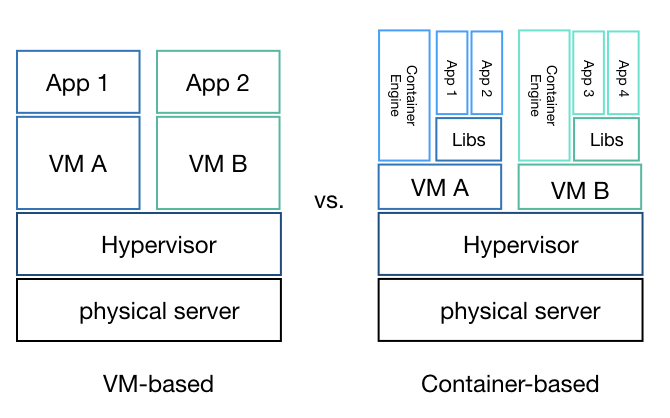
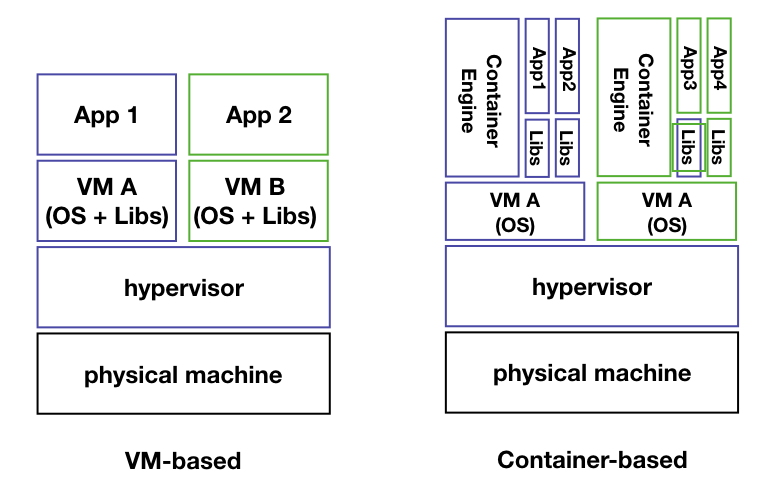
update

diff --git a/background.tex b/background.tex
@@ -4,6 +4,56 @@
 % Then, it narrows down to the Energy-aware resource management problem in Section \ref{C:}.
 
 
+\subsection{Virtualization}
+Virtualization \cite{Uhlig:2005do} is the fundamental technology that enables Cloud computing. It partitions a physical machine's resources (e.g. CPU, memory and disk) into several independent units called virtual machines (VMs) or containers. This technology rooted back in the 1960s' and was originally invented to enable isolated software testing, because each virtualized unit can provide good isolation which means multiple applications can run in separated VMs within the same PM without interfering each other \cite{Somani:2009ho}. 
+
+Soon, people realized that it can be a way to improve the utilization of hardware resources: With each application deployed in a VM, a PM can run multiple applications. Later, multiple ways of dynamic migration (e.g pre-copy \cite{Clark:2005uda} and post-copy \cite{Hines:2009vs}) of VM were invented, which compresses and transfers a VM from one PM to another. This technique allows resource management in real time which inspires the strategy of server consolidation. 
+
+Virtual machine-based virtualization is the mainstream in the previous decades and producing many popular hypervisors: Xen \cite{Barham:2003cj}, KVM \cite{Kivity:2007wu}, and VMware ESX \cite{Waldspurger:2002vl}.
+The recent development of container: application containers such as Docker, Linux Container, and Kubernetes \cite{Bernstein:2014ur} 
+have attract the attention from both academia and industry. It provides a finer granularity of resource management by enabling an application level of operations including deployment, scaling, and migration.  
+
+\subsubsection{VM-based system architecture and resource management}
+
+
+
+\subsubsection{Container-based architecture and resource management}
+Container-based virtualization is also often addressed as 
+operating-system-level virtualization. It includes two types of container: OS container and application container \cite{Piraghaj:2017vi}. OS container (as shown in Figure \ref{}) can run in both PM and VM. Each container provides an isolated environment. There are mainly three implementations of OS-level of containers: OpenVZ, Google's control groups, and namespace \cite{Rosen:2013wt}.
+Google and Facebook have been using OS container for years and being beneficial for its lightweight and fast communication among applications.
+
+In contrast of OS containers, an application container, such as Docker and Rocket, runs a single process. It allows to separate an applications into many components. With application container, it is easy to achieve auto-scaling on a single process. In comparison between OS and application container, the former can be seen as a VM runs multiple applications where each application can has its separated environment (e.g. libraries); An Application container is a single application that can be deployed in both OS container and VM.
+
+He et al \cite{He:2012im} propose an hierarchical resource management architecture for application container (see Figure \ref{fig:container_architecture}). The major functionality of Cloud controller is to provide a global optimization.
+
+\begin{figure}
+	\centering
+	\includegraphics[width=0.7\textwidth]{pics/container-arch.png.png}
+	\caption{A resource management architecture of container-based Cloud and the functionalities of each layer.}
+	\label{fig:container_architecture}
+\end{figure}
+
+Several research \cite{He:2012im, Felter:2015ki, Xavier:2013is, Dua:2014uz} have compared VM-based and container-based virtualization. The advantages of container-based virtualization are mainly from two aspects:
+1. Low overhead, containers have a lightweight management. which generate much less overhead than a hypervisor. On the other hand, shared OS system also reduces the overhead on running multiple OSs. 2. Containers have a near-native performance of CPU, memory, disk and network. While VM has a poor I/O performance \cite{Shafer:2010vh}: up to 50\% reduction of bandwidth (e.g hard disk and network). This defect also has a negative effect on the migration performance, since a VM-image is ranging from hundreds of MB to several GBs. On the other hand, the disadvantages of containers are also categorized in two aspects. Containers have rather poor performance in isolation for memory, disk, and network. Security is the major concern for container virtualization.
+
+
+\subsection{Server consolidation}
+
+\textcolor[Maroon]{What is Server consolidation?}
+Server consolidation is an approach to reduce the total number of PM or PM locations. It is often applied to solve the problem of physical server sprawl \cite{Khanna:2006vq}: a situation that more PMs are used in a low-utilized way. 
+
+
+\textcolor[Maroon]{Why Server consolidation?}
+Physical server sprawl not only wastes valuable computing resources but leads to a waste of energy, as Hameed et al \cite{Hameed:2016cma} addressed, even at a low level of 10\% of CPU utilization, PMs still consume more than 50\% of its peak time. 
+In addition, Han et al \cite{Han:2017jz} state that average resource utilization of PMs  is usually between 10\% to 50\%
+of its capacity. Server consolidation is often used to solve the disproportionate between utilization and energy consumption \cite{Barroso:2007jt}.
+
+\textcolor[Maroon]{How to do server consolidation?}
+From a broad technologies perspective, there are generally two technologies can be used to achieve server consolidation: virtualization and clustering. Clustering is used in a situation that the applications running in PMs are I/O intensive. This is because current virtualization technologies  such as KVM \cite{Kivity:2007wu} or Xen \cite{Barham:2003cj} have a 20\% to 55\% of reduction of I/O bandwidth (e.g disk reads and writes, network bandwidth) in comparison with non-virtualized PM \cite{Shafer:2010vh}. Virtualization is more suitable for applications which require little CPU utilization (e.g 15\%) and low I/O needs. Web services are mostly categorized into this group. Three major benefits of virtualization make it be the first choice for web-based application consolidation: No reliance on hardware, easy to provision and live migration.
+
+As \ref{sec:virtualization} mentioned, there are two types of virtualization: VM-based and container-based. Current consolidation are mostly VM-based since there is few data center has adopt the container-based technique.
+
+
 \subsection{An Overview of Cloud Computing}
 % In this section, we will introduce the virtualization technology
 \textcolor{Maroon}{Describe the field you will be researching.}
@@ -19,8 +69,6 @@ This separation of role has completely reformed the software industry \cite{Buyy
 
 
 The detailed goal and objectives of stakeholders are described below. 
-
-
 \begin{figure}
 	\centering
 	\includegraphics[width=0.7\textwidth]{pics/stakeholders.png}
@@ -53,8 +101,6 @@ The detailed goal and objectives of stakeholders are described below.
 % 	\label{fig:unproportional}
 % \end{figure}
 
-% According to Hameed et al \cite{Hameed:2016cma}, PMs are far from energy-efficient. 
-% The main reason for the wastage is that the energy consumption of PMs remains high even when the utilization are low (see Figure \ref{fig:unproportional}). Therefore, a concept of \emph{energy proportional computing} \cite{Barroso:2007jt} raised to address the disproportionate between utilization and energy consumption. 
 
 
 \begin{figure}
@@ -202,7 +248,6 @@ Furthermore, the decisions are often made in an on-line fashion to trigger the a
 
 
 
-% Virtualization \cite{Uhlig:2005do} is the fundamental technology that enables Cloud computing. It partitions a physical machine's resources (e.g. CPU, memory and disk) into several isolated units called virtual machines (VMs) where each VM allows an operating system running on it. This technology rooted back in the 1960s' and was originally invented to enable isolated software testing, because VMs can provide good isolation which means applications running in co-located VMs within the same PM without interfering each other \cite{Somani:2009ho}. Soon, people realized that it can be a way to improve the utilization of hardware resources: With each application deployed in a VM, a PM can run multiple applications. Later, a dynamic migration of VM was invented, which compresses and transfers a VM from one PM to another. This technique allows resource management in real time which inspires the strategy of server consolidation. 
 
 
 % \subsection{Resource Management in IaaS}
